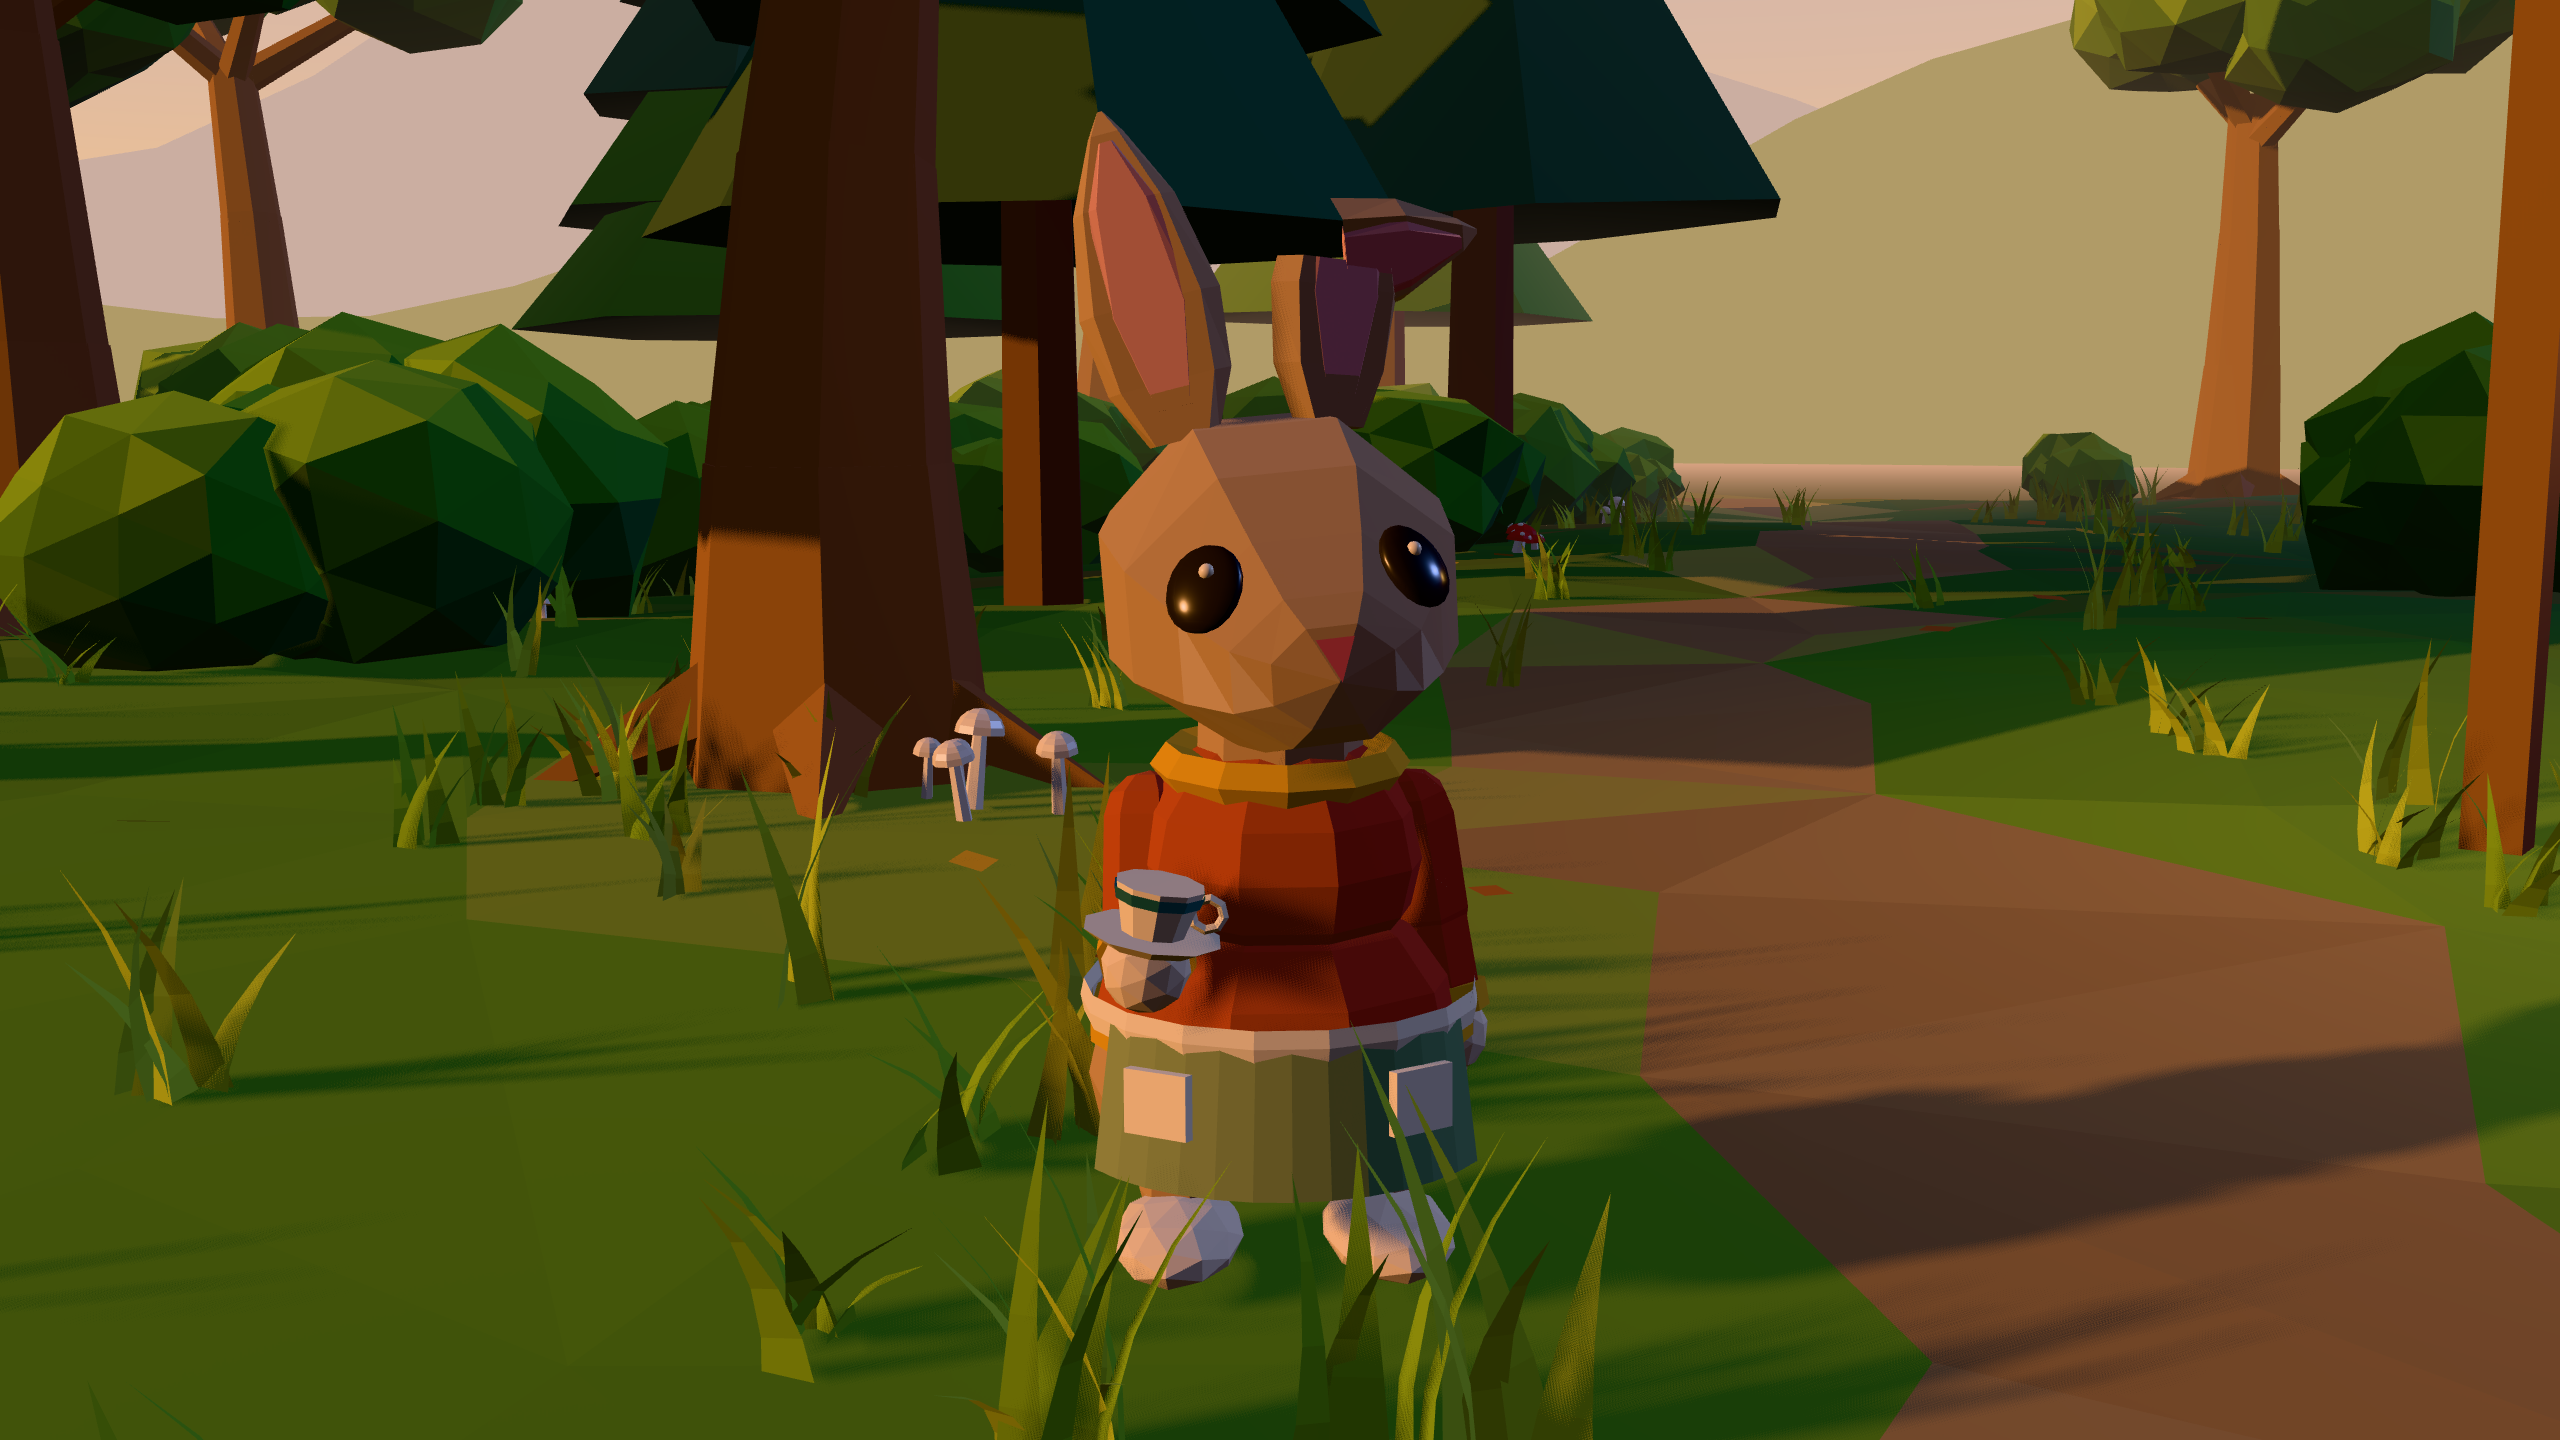
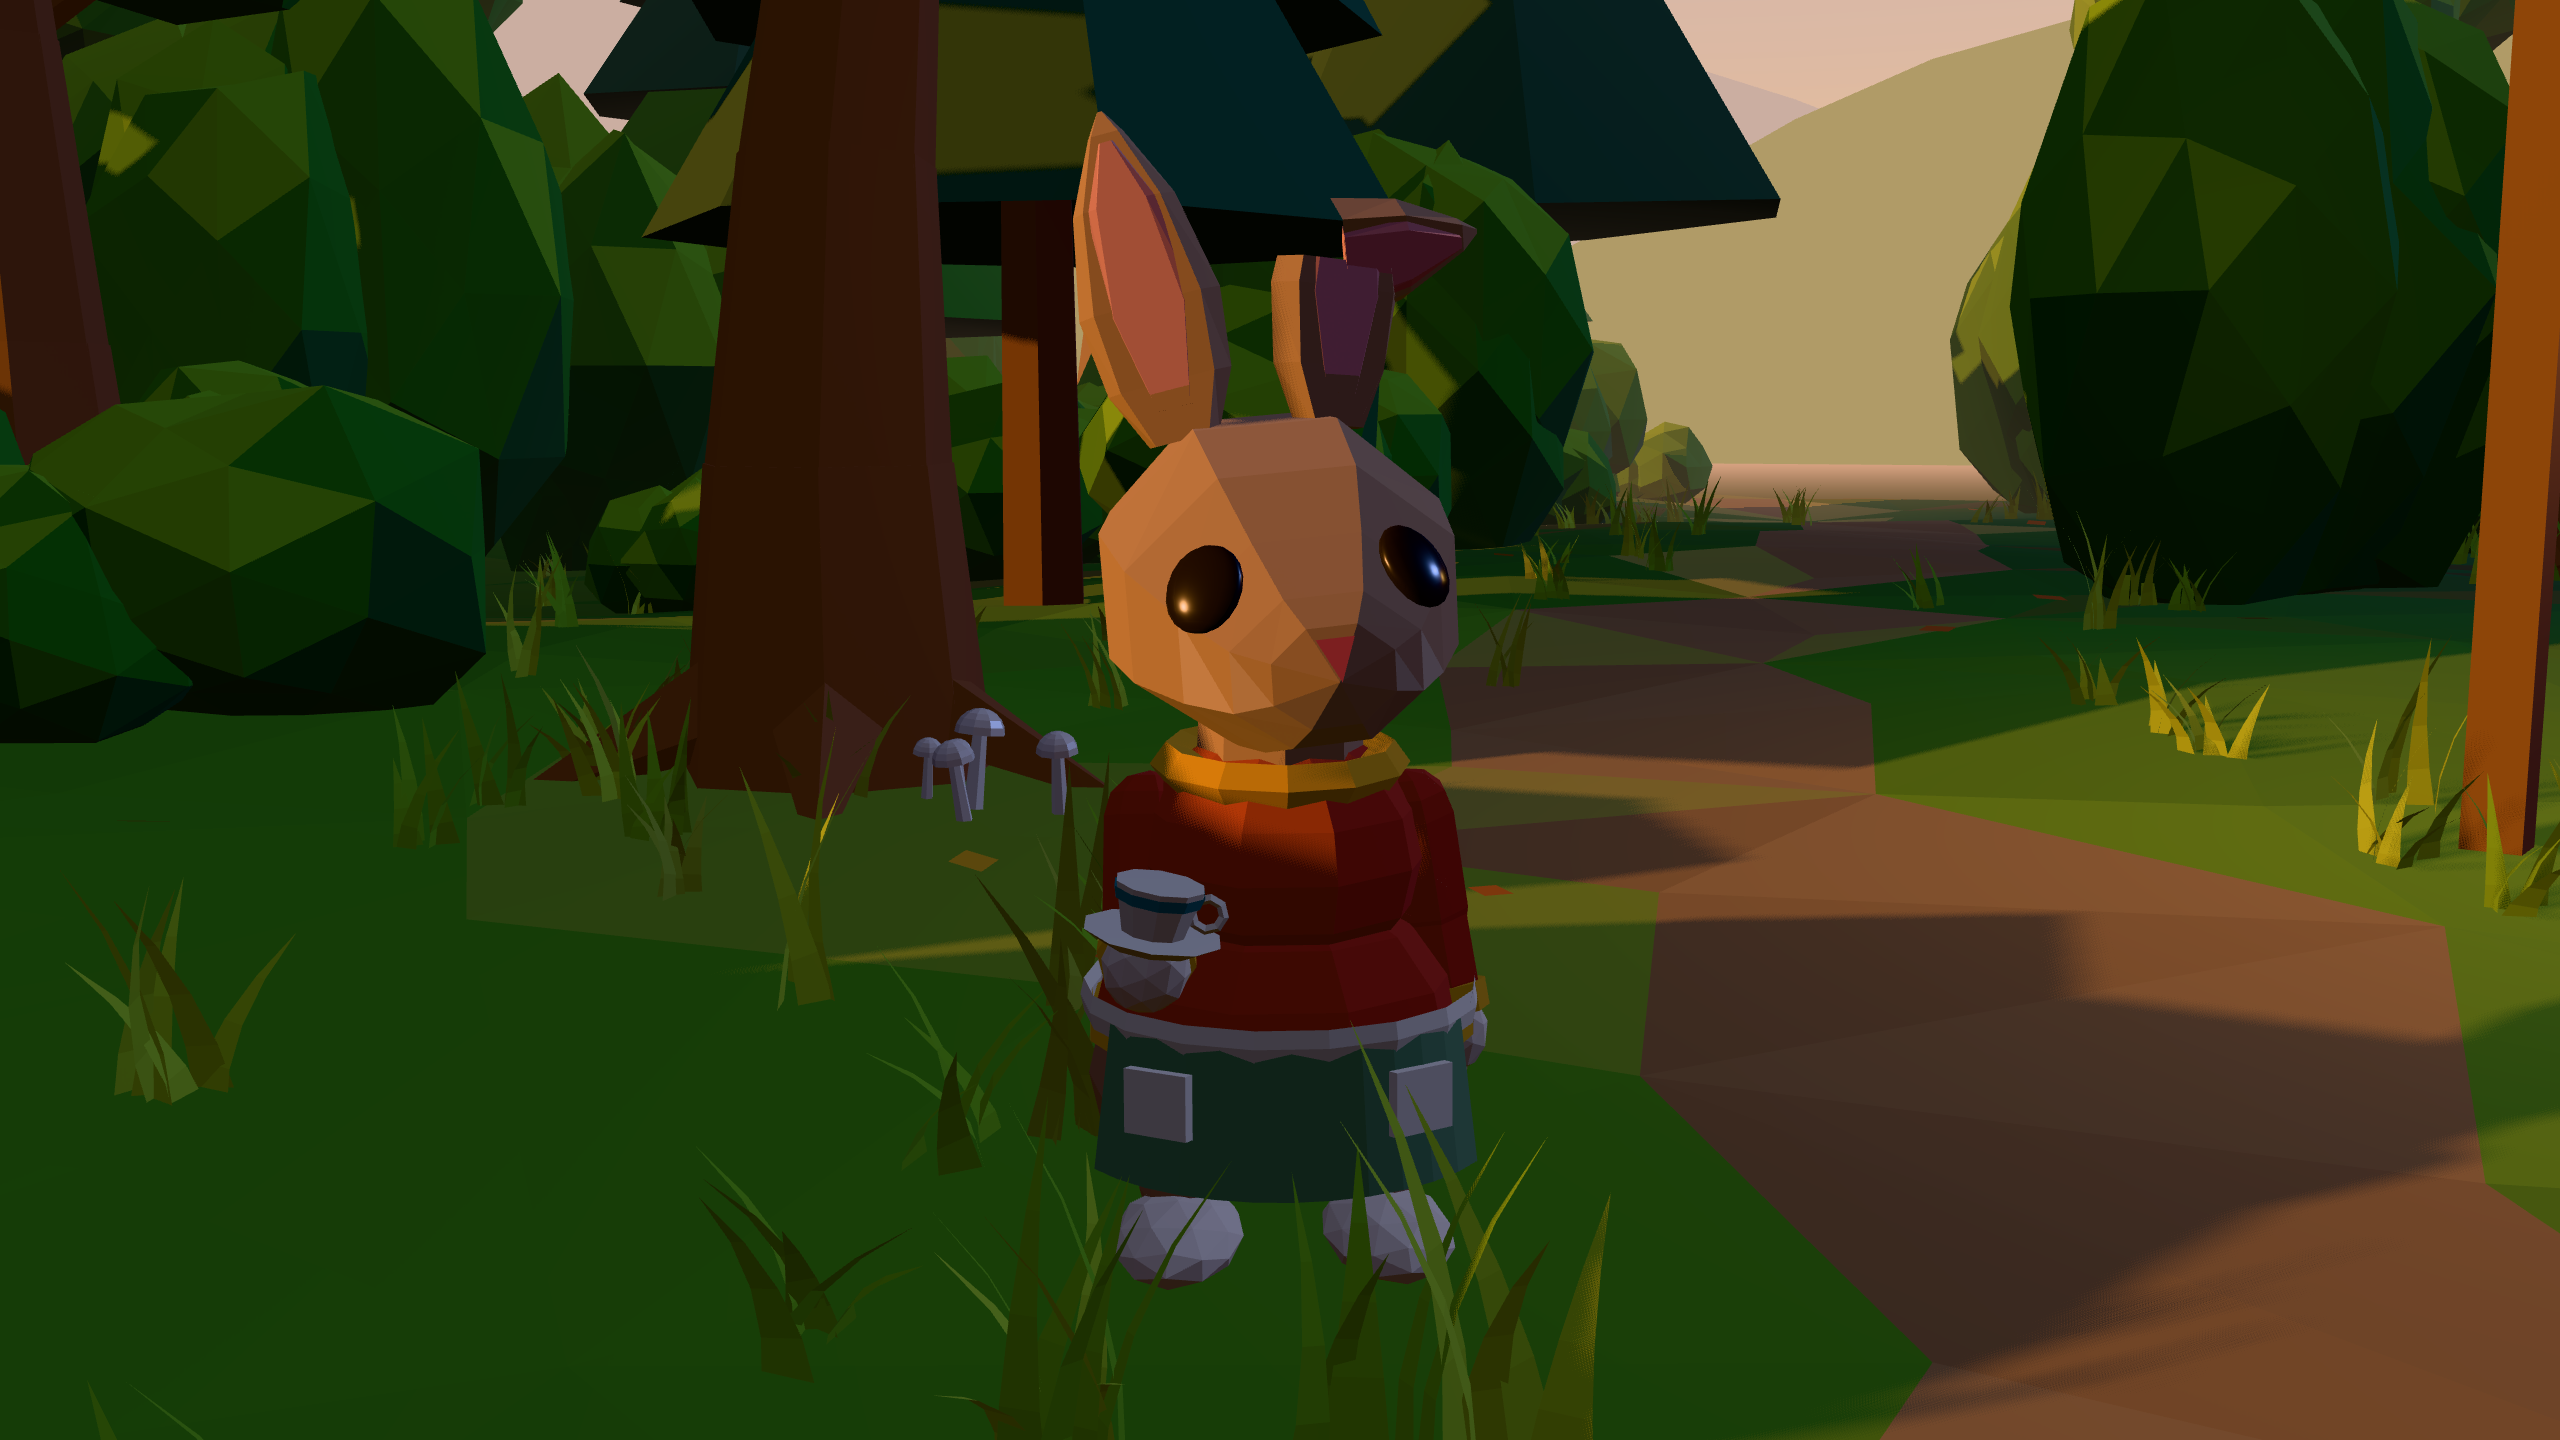
Stage 1: taller back undergrowth, remove modelled eye highlight
Claude-Session: https://claude.ai/code/session_01AjNKUmzxLmUDqvxL1cXuoP

diff --git a/src/builders/animal/build.ts b/src/builders/animal/build.ts
@@ -186,10 +186,6 @@ function buildHead(
     eye.position.set(ex, e.height, ez * 0.97);
     eye.lookAt(new THREE.Vector3(ex * 2.2, e.height * 1.2, ez * 3));
     head.add(eye);
-    const glint = mesh(ball(0), mat('clothCream', 'gloss'), 'eye-glint');
-    glint.scale.setScalar(e.size * 0.28);
-    glint.position.set(ex + sx * e.size * 0.15, e.height + e.size * 0.4, ez * 0.97 + e.size * 0.45);
-    head.add(glint);
   }
 
   buildEars(spec, head, j, fur, furInner);
@@ -312,7 +308,8 @@ function buildLoftHead(spec: AnimalSpec, head: THREE.Object3D, fur: THREE.Materi
   nose.position.set(0, tip.c + tip.h * 0.5, tip.at + Math.min(tip.w, tip.h) * 0.3);
   head.add(nose);
 
-  // Eyes: glossy domes seated on the head's actual surface. A ray from inside the head finds
+  // Eyes: glossy domes seated on the head's actual surface (no modelled highlight; the gloss
+  // material catches real light). A ray from inside the head finds
   // the facet each eye sits on; the eye is aligned to that facet's normal so no facet edge
   // cuts through it.
   const e = spec.eyes;
@@ -333,13 +330,6 @@ function buildLoftHead(spec: AnimalSpec, head: THREE.Object3D, fur: THREE.Materi
     eye.position.copy(hit.point).addScaledVector(normal, e.size * 0.12);
     eye.lookAt(eye.position.clone().add(normal));
     head.add(eye);
-    // Catch-light on the dome, up and slightly toward the face's front.
-    const glint = mesh(lowSphere(8, 6), smoothGloss('clothCream'), 'eye-glint');
-    glint.scale.setScalar(e.size * 0.2);
-    const up = new THREE.Vector3(0, 1, 0).projectOnPlane(normal).normalize();
-    const fwd = new THREE.Vector3(0, 0, 1).projectOnPlane(normal).normalize();
-    glint.position.copy(eye.position).addScaledVector(normal, e.size * 0.38).addScaledVector(up, e.size * 0.42).addScaledVector(fwd, e.size * 0.2);
-    head.add(glint);
   }
   probe.material.dispose();
 }

diff --git a/src/builders/woodland.ts b/src/builders/woodland.ts
@@ -73,11 +73,14 @@ export function buildWoodland(p: WoodlandParams): THREE.Group {
   let bushes = 0;
   for (let tries = 0; bushes < p.bushes.count && tries < p.bushes.count * 40; tries++) {
     const { x, z } = sample(p.clearing.r * 0.85);
-    const size = range(rng, 0.9, 1.8);
+    // Further back, many bushes grow tall: a wall of undergrowth that hides the horizon.
+    const far = Math.hypot(x - p.clearing.x, z - p.clearing.z) > p.clearing.r + 2.5;
+    const tall = far && rng() < 0.6;
+    const size = tall ? range(rng, 1.6, 2.4) : range(rng, 0.9, 1.8);
     const r = size * 0.4;
     if (!open(x, z, r, p.bushes.trailMargin, p.bushes.minGap)) continue;
     const id = `${p.id}-bush-${bushes}`;
-    seat(buildBush({ id, size, height: range(rng, 0.5, 0.75), berries: rng() < 0.15 }), x, z);
+    seat(buildBush({ id, size, height: tall ? range(rng, 1.1, 1.5) : range(rng, 0.5, 0.75), berries: rng() < 0.15 }), x, z);
     if (rng() < 0.12) seat(buildMushrooms({ id: `${id}-m`, kind: rng() < 0.5 ? 'toadstool' : 'pale', count: 3, spread: 0.15 }), x + size * 0.5, z + size * 0.3);
     placed.push({ x, z, r });
     bushes++;

diff --git a/src/content/study.ts b/src/content/study.ts
@@ -19,7 +19,7 @@ export const studyScene = {
     clearing: { x: 0, z: -0.4, r: 3.6 },
     extent: 17,
     trees: { count: 46, minGap: 2.2, firShare: 0.4, trailMargin: 1.7 },
-    bushes: { count: 110, minGap: 1.0, trailMargin: 0.85 },
+    bushes: { count: 150, minGap: 1.0, trailMargin: 0.85 },
   },
   rock: { id: 'study-rock', x: 2.6, z: 0.1, size: 1.15, squash: 0.62, mossy: 0.55 },
   lantern: { id: 'study-lantern', x: 1.35, z: -1.6, rotY: -0.5, height: 1.95 },
